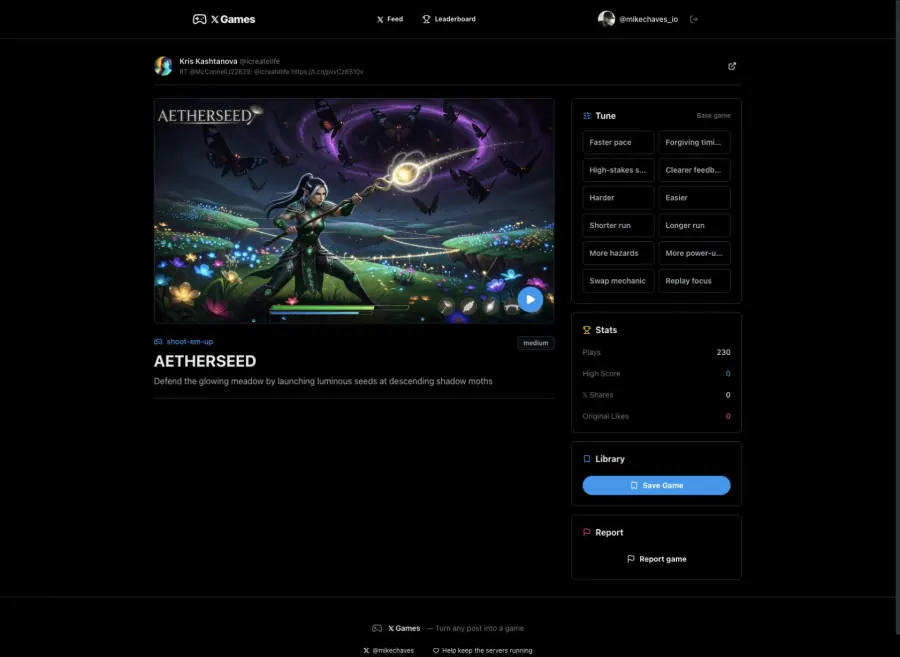
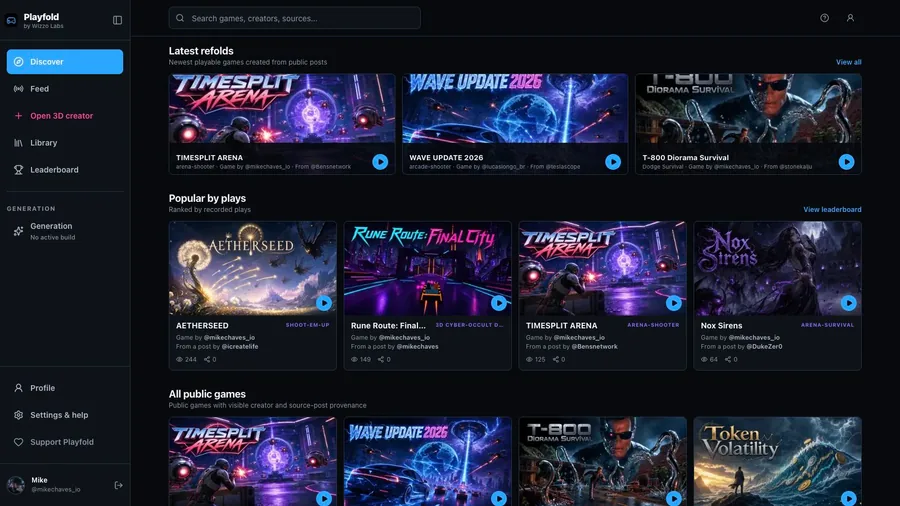
feat: refresh Wizzo and Playfold proof

diff --git a/app/projects/[id]/projectMedia.ts b/app/projects/[id]/projectMedia.ts
@@ -230,30 +230,30 @@ const PROJECT_MEDIA_COPY: Record<string, Record<string, ProjectMediaCopy>> = {
   },
   wizzo: {
     "/projects/wizzo/app-interface.png": {
-      label: "AI mentor product cockpit",
-      caption: "Current product surface connecting chat, goals, voice, work context, and quest follow-through.",
+      label: "Living Mentor workspace",
+      caption: "Current authenticated product surface shown without personal content, pairing a focused mentor prompt, voice controls, quick starts, campaigns, and reviewable follow-through.",
       section: "action",
     },
     "/projects/wizzo/main-image.png": {
-      label: "Quest progress system",
-      caption: "Supporting product evidence showing the AI mentor, quest status, and progress-oriented navigation.",
+      label: "Public Wizzo product story",
+      caption: "Current public product surface frames plans as quests, keeps one next action visible, and makes human review part of the product promise.",
       section: "result",
     },
   },
   "x-games": {
     "/projects/x-games/platform-home.png": {
-      label: "Live game discovery platform",
-      caption: "Historical shipped product surface captured before the Playfold naming transition, connecting the post-to-game promise to a live catalog of generated games, creator attribution, genres, play actions, and engagement signals.",
+      label: "Source-to-game product story",
+      caption: "Current public Playfold surface connects a real source post, the interpreted game hook, a playable result, and a direct creator action in one legible product narrative.",
       section: "situation",
     },
     "/projects/x-games/generated-game-detail.png": {
-      label: "Generated-game control surface",
-      caption: "Historical shipped product state captured before the Playfold naming transition; a source post, generated game, tuning controls, play statistics, library action, and reporting path stay connected in one reviewable surface.",
+      label: "Adaptive discovery catalog",
+      caption: "Current app surface organizes latest, popular, and all-public refolds while preserving game creator, source-post attribution, genre, play activity, and direct launch paths.",
       section: "action",
     },
     "/projects/x-games/leaderboard.png": {
-      label: "Ranked game ecosystem",
-      caption: "Historical shipped product state captured before the Playfold naming transition; the all-time leaderboard turns generated games into persistent social objects with ranked discovery, play counts, creator identity, and direct replay paths.",
+      label: "Verified seasonal leaderboard",
+      caption: "Current competition surface makes qualification, total-score ranking, tie-break logic, game identity, player counts, and direct replay visibly reviewable.",
       section: "result",
     },
   },

diff --git a/components/homepage-content.tsx b/components/homepage-content.tsx
@@ -21,13 +21,13 @@ const featuredProjectPresentation = {
   wizzo: {
     eyebrow: "AI product system",
     summary:
-      "An AI mentor system that turns conversation, connected context, and goals into actionable quests.",
+      "An AI mentor system that turns goals, blockers, and progress into one clear next move with reviewable follow-through.",
     actionLabel: "View Wizzo",
   },
   "x-games": {
     eyebrow: "Game + creator platform",
     summary:
-      "An AI-first social game platform that turns posts into playable browser games and persistent creator content.",
+      "An AI-native social game platform that turns source posts into playable browser games, adaptive discovery, and verified competition.",
     actionLabel: "View Playfold",
   },
   speakeasy: {
@@ -108,8 +108,16 @@ export function HomepageContent() {
               I build AI product systems, playable experiences, and immersive tools.
             </h1>
             <p className="home-journey-lede">
-              Founder of Wizzo Labs. I design trustworthy AI products, creator workflows, and
-              human-in-the-loop multimodal experiences.
+              <a
+                href="https://wizzolabs.net"
+                target="_blank"
+                rel="noopener noreferrer"
+                className="text-white underline decoration-white/30 underline-offset-4 transition-colors hover:text-primary"
+              >
+                Founder of Wizzo Labs
+              </a>
+              . I design trustworthy AI products, creator workflows, and human-in-the-loop
+              multimodal experiences.
             </p>
             <div className="home-journey-actions" aria-label="Homepage paths">
               <HomeJourneyLink

diff --git a/__tests__/x-games-case-study.test.ts b/__tests__/x-games-case-study.test.ts
@@ -33,7 +33,7 @@ describe("Playfold evidence dossier", () => {
 
     expect(project.title).toBe("Playfold")
     expect(project.demo).toBe("https://playfold.wizzolabs.net/")
-    expect(project.details.client).toBe("Playfold")
+    expect(project.details.client).toBe("Wizzo Labs")
     expect(project.details.situation?.[0]?.description).toContain("Playfold is")
     expect(JSON.stringify(project)).not.toContain('"X Games"')
   })
@@ -41,7 +41,7 @@ describe("Playfold evidence dossier", () => {
   it("states direct product-system proof instead of portfolio-value fallback copy", () => {
     const project = projects["x-games"]
     expect(project).toBeDefined()
-    expect(project.details.proofRole).toContain("AI-native generation")
+    expect(project.details.proofRole).toContain("source-grounded AI generation")
     expect(project.details.proofRole).toContain("ranked play")
     expect(project.details.services).toEqual([
       "AI Product Systems",
@@ -75,9 +75,9 @@ describe("Playfold evidence dossier", () => {
     })
 
     expect(media.map((item) => item.label)).toEqual([
-      "Generated-game control surface",
-      "Live game discovery platform",
-      "Ranked game ecosystem",
+      "Adaptive discovery catalog",
+      "Source-to-game product story",
+      "Verified seasonal leaderboard",
     ])
     expect(media.map((item) => item.section)).toEqual(["action", "situation", "result"])
     expect(media.every((item) => item.caption.length > 60)).toBe(true)

diff --git a/components/about-content.tsx b/components/about-content.tsx
@@ -164,7 +164,7 @@ export function AboutContent() {
               I design and build product systems for workflows where software, automation, and human judgment have to work together.
             </p>
             <p className="operating-profile-summary">
-              My work sits between product design, front-end engineering, AI workflow design, and operational tooling. I am strongest in ambiguous environments that require both systems thinking and hands-on execution.
+              My work sits between product design, front-end engineering, AI workflow design, and operational tooling. I also operate <a href="https://wizzolabs.net" target="_blank" rel="noopener noreferrer" className="text-primary underline decoration-primary/35 underline-offset-4 hover:decoration-primary">Wizzo Labs</a>, the studio behind Wizzo and Playfold. I am strongest in ambiguous environments that require both systems thinking and hands-on execution.
             </p>
             <div className="operating-profile-actions">
               <Link href="/projects" prefetch={false} className="operating-profile-primary-action">

diff --git a/components/featured-project-card.tsx b/components/featured-project-card.tsx
@@ -21,12 +21,12 @@ const HOME_FEATURED_IMAGES = {
   wizzo: {
     src: "/projects/wizzo/app-interface-home.webp",
     width: 900,
-    height: 404,
+    height: 506,
   },
   "x-games": {
     src: "/projects/x-games/generated-game-detail-home.webp",
     width: 900,
-    height: 657,
+    height: 506,
   },
   speakeasy: {
     src: "/projects/speakeasy/thesis-defense-home.webp",

diff --git a/__tests__/wizzo-case-study.test.ts b/__tests__/wizzo-case-study.test.ts
@@ -45,8 +45,8 @@ describe("Wizzo evidence dossier", () => {
     })
 
     expect(media.map((item) => item.label)).toEqual([
-      "AI mentor product cockpit",
-      "Quest progress system",
+      "Living Mentor workspace",
+      "Public Wizzo product story",
     ])
     expect(media.some((item) => item.section === "result")).toBe(true)
   })
